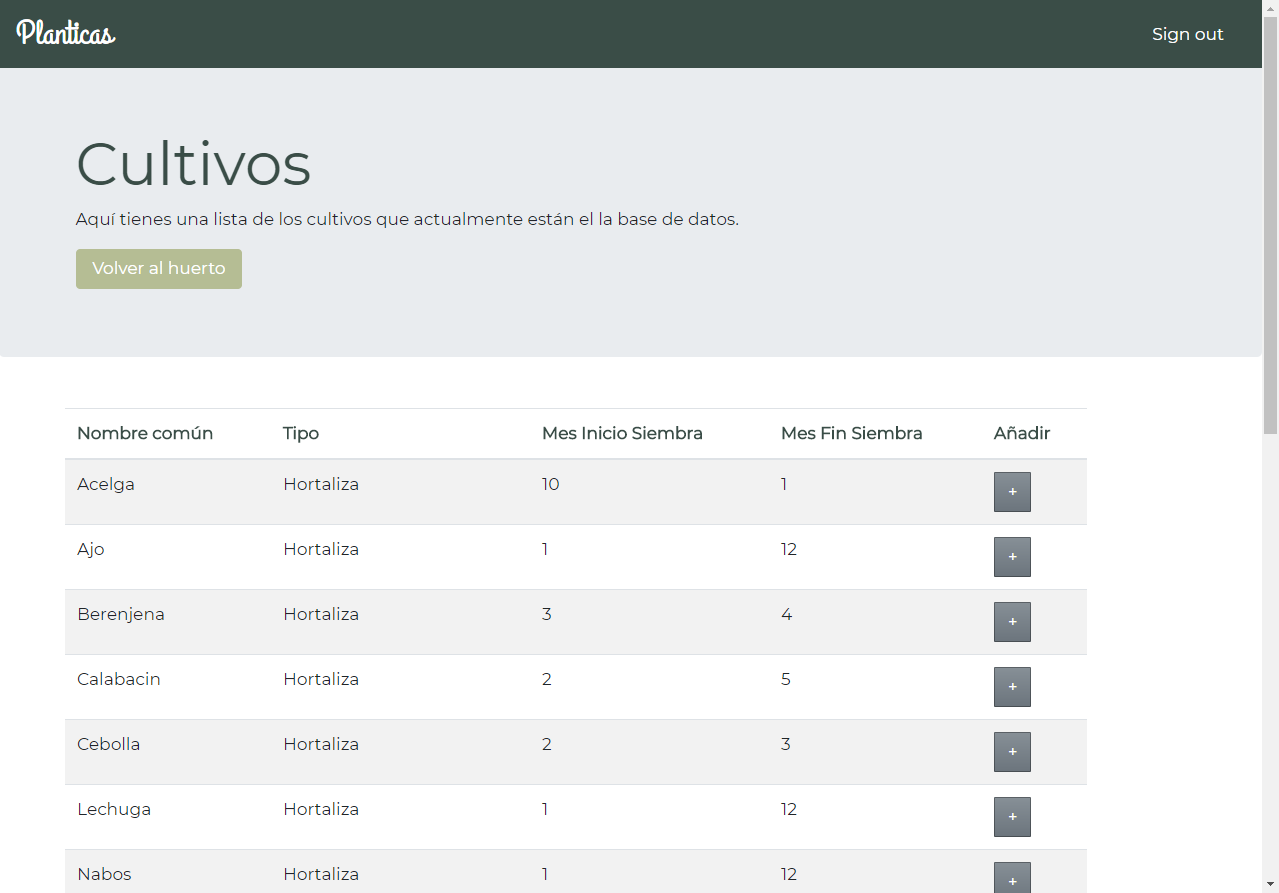
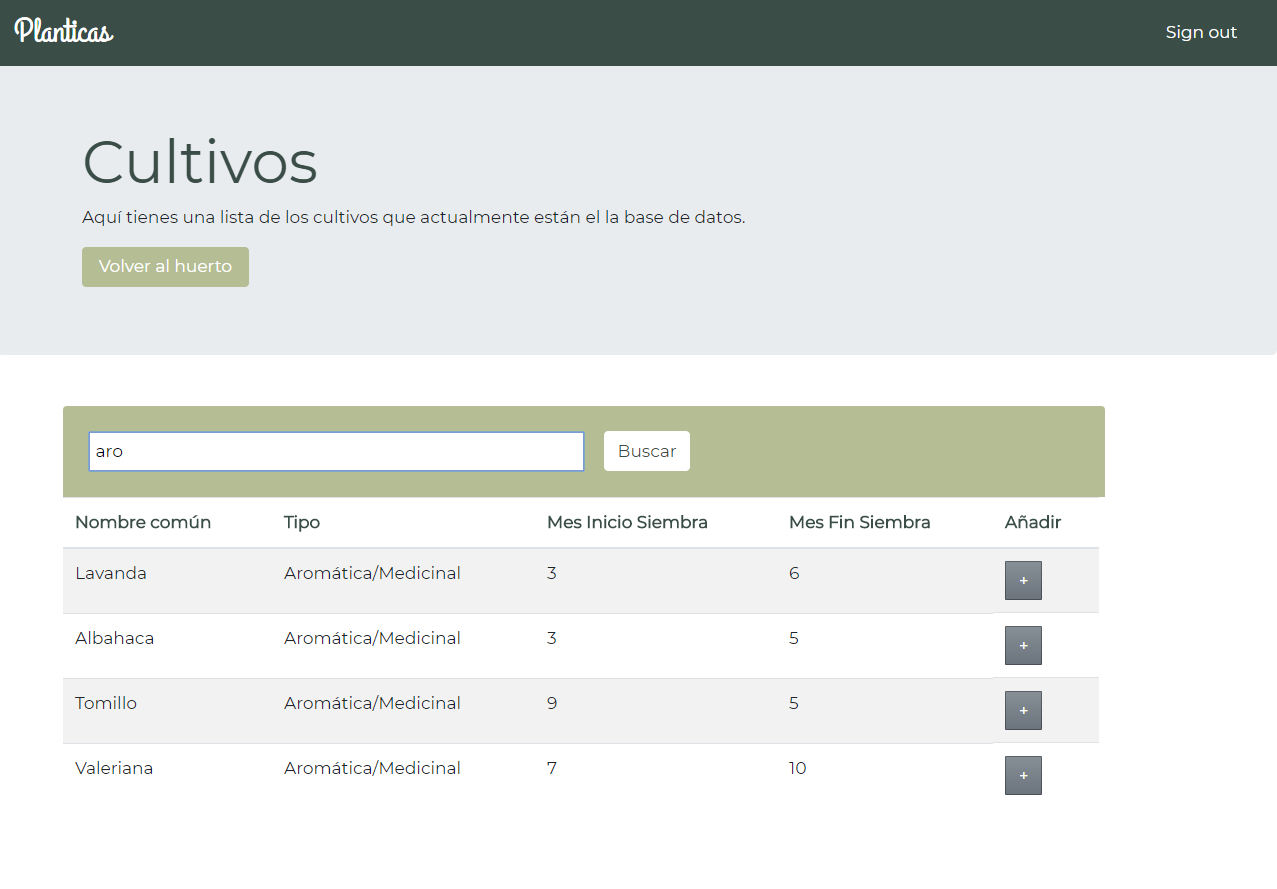
New feature: search

diff --git a/planticasJSP/web/buscador.js b/planticasJSP/web/buscador.js
@@ -1,0 +1,36 @@
+function doSearch(){
+    var tableReg = document.getElementById('tabla');
+    var searchText = document.getElementById('searchText').value.toLowerCase();
+    var cellsOfRow = "";
+    var found = false;
+    var compareWith = "";
+
+    // Recorremos todas las filas con contenido de la tabla
+    for (var i = 1; i < tableReg.rows.length; i++)
+    {
+        cellsOfRow = tableReg.rows[i].getElementsByTagName('td');
+        found = false;
+        // Recorremos todas las celdas
+        for (var j = 0; j < cellsOfRow.length && !found; j++)
+        {
+            compareWith = cellsOfRow[j].innerHTML.toLowerCase();
+            // Buscamos el texto en el contenido de la celda
+            if (searchText.length == 0 || (compareWith.indexOf(searchText) > -1))
+            {
+                found = true;
+            }
+        }
+        if (found)
+        {
+            tableReg.rows[i].style.display = '';
+        } else {
+            // si no ha encontrado ninguna coincidencia, esconde la
+            // fila de la tabla
+            tableReg.rows[i].style.display = 'none';
+        }
+    }
+}
+
+    function mostrar() {
+      document.getElementById("tabla").style.display = 'inline';
+    }

diff --git a/planticasJSP/web/registro.js b/planticasJSP/web/registro.js
@@ -44,14 +44,7 @@ function validarReg(){
     document.getElementById("username").style.color = "#000";
     document.getElementById("errorUsername").style.display = "none";
   }
-  //validacion provincia
-	var provincia=document.getElementById("provincia")
-	if(provincia.value==0){
-		document.getElementById("provincia").style.borderColor="#F00"
-		document.getElementById("errorProvincia").style.display = "inline";
-		correcto=false;
-	}
-	return correcto;
+  
 }
 
 function quitarError(dato, mensaje){
